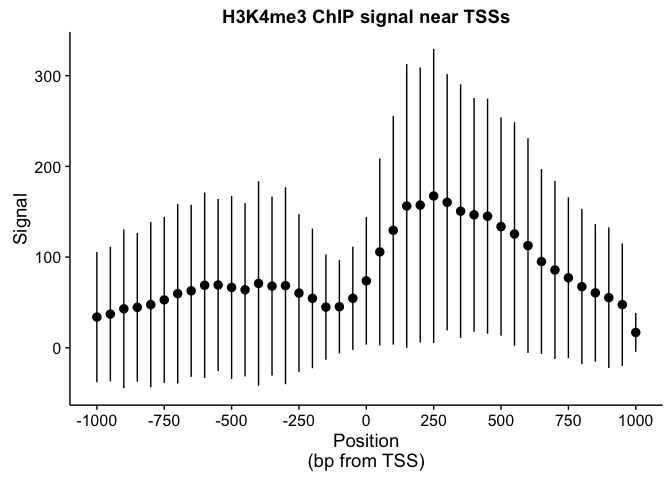
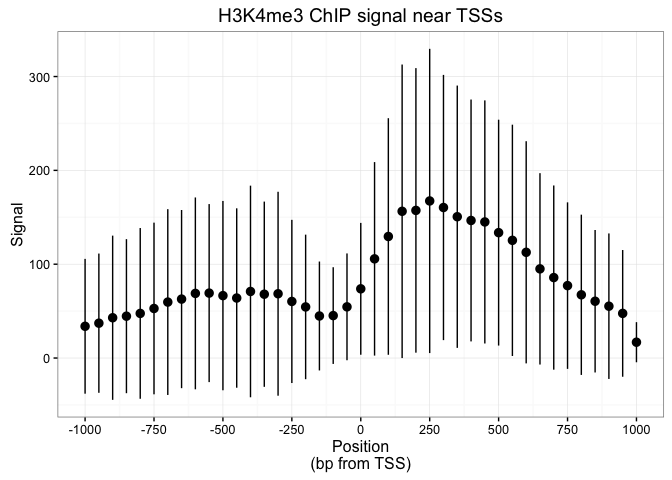
remove unnecessary dependencies

diff --git a/README.md b/README.md
@@ -1,7 +1,7 @@
 `valr`: Genome interval arithmetic in R
 ================
 Jay Hesselberth <jay.hesselberth@gmail.com>
-2016-06-20
+2016-07-29
 
 [![Build Status](https://travis-ci.org/jayhesselberth/valr.svg?branch=master)](https://travis-ci.org/jayhesselberth/valr) [![Coverage Status](https://img.shields.io/codecov/c/github/jayhesselberth/valr/master.svg)](https://codecov.io/github/jayhesselberth/valr?branch=master)
 
@@ -25,7 +25,6 @@ The goal of `valr` is to enable easy analysis of genome-scale data sets **within
 library(valr)
 library(dplyr)
 library(ggplot2)
-library(cowplot)
 
 bedfile <- system.file('extdata', 'genes.hg19.chr22.bed.gz', package = 'valr')
 bgfile  <- system.file('extdata', 'hela.h3k4.chip.bg.gz', package = 'valr')
@@ -54,10 +53,11 @@ x_breaks <- seq(1,41, by = 5)
 sd_limits <- aes(ymax = means + sds, ymin = means - sds)
 
 ggplot(res, aes(x = win_id.x, y = means)) +
-  geom_point()  + geom_pointrange(sd_limits) + 
+  geom_point() + geom_pointrange(sd_limits) + 
   scale_x_continuous(labels = x_labels, breaks = x_breaks) + 
   ggtitle('H3K4me3 ChIP signal near TSSs') +
-  xlab('Position\n(bp from TSS)') + ylab('Signal')
+  xlab('Position\n(bp from TSS)') + ylab('Signal') +
+  theme_bw()
 ```
 
 <img src="README-tss_signal_example-1.png" style="display: block; margin: auto;" />
